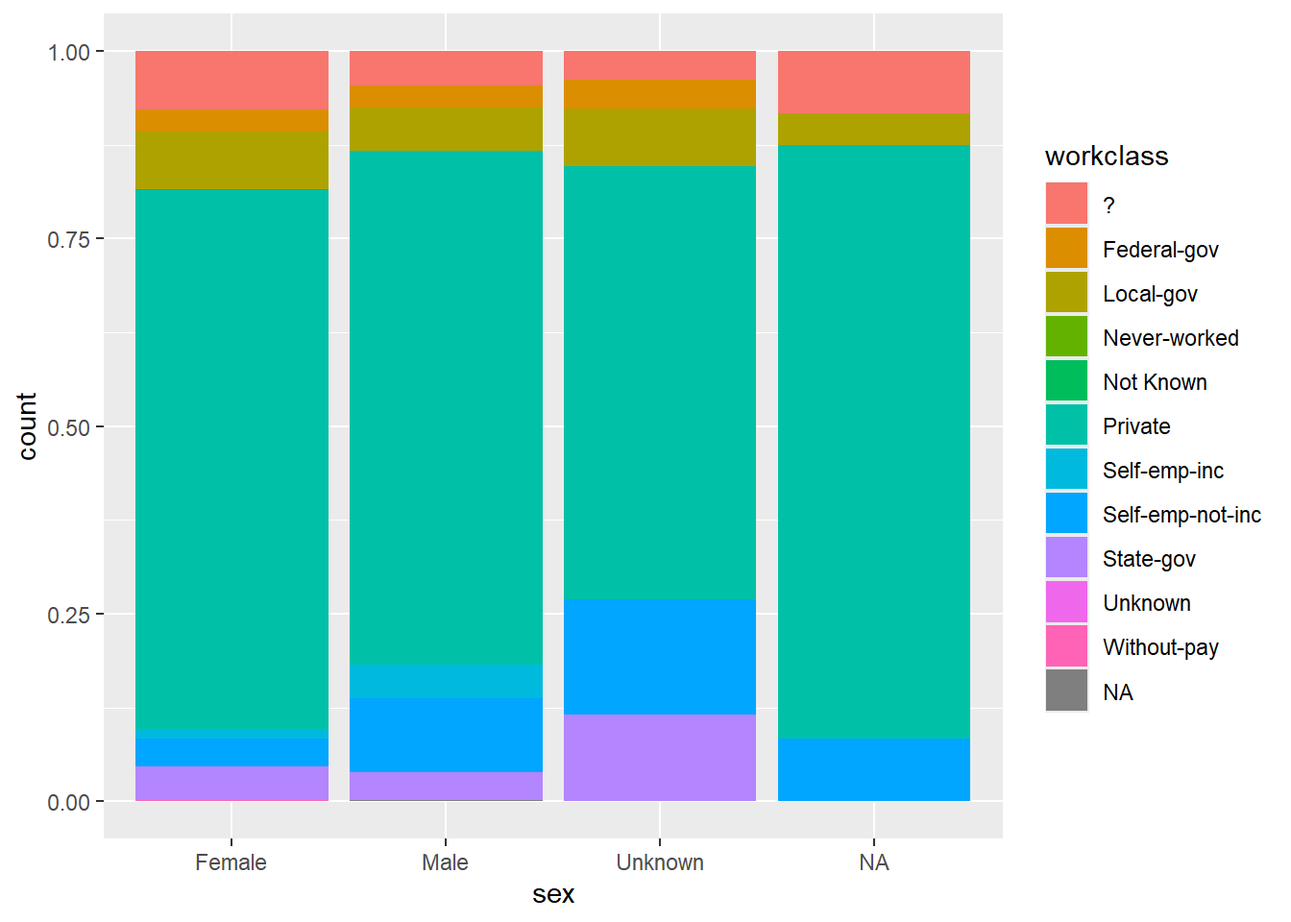
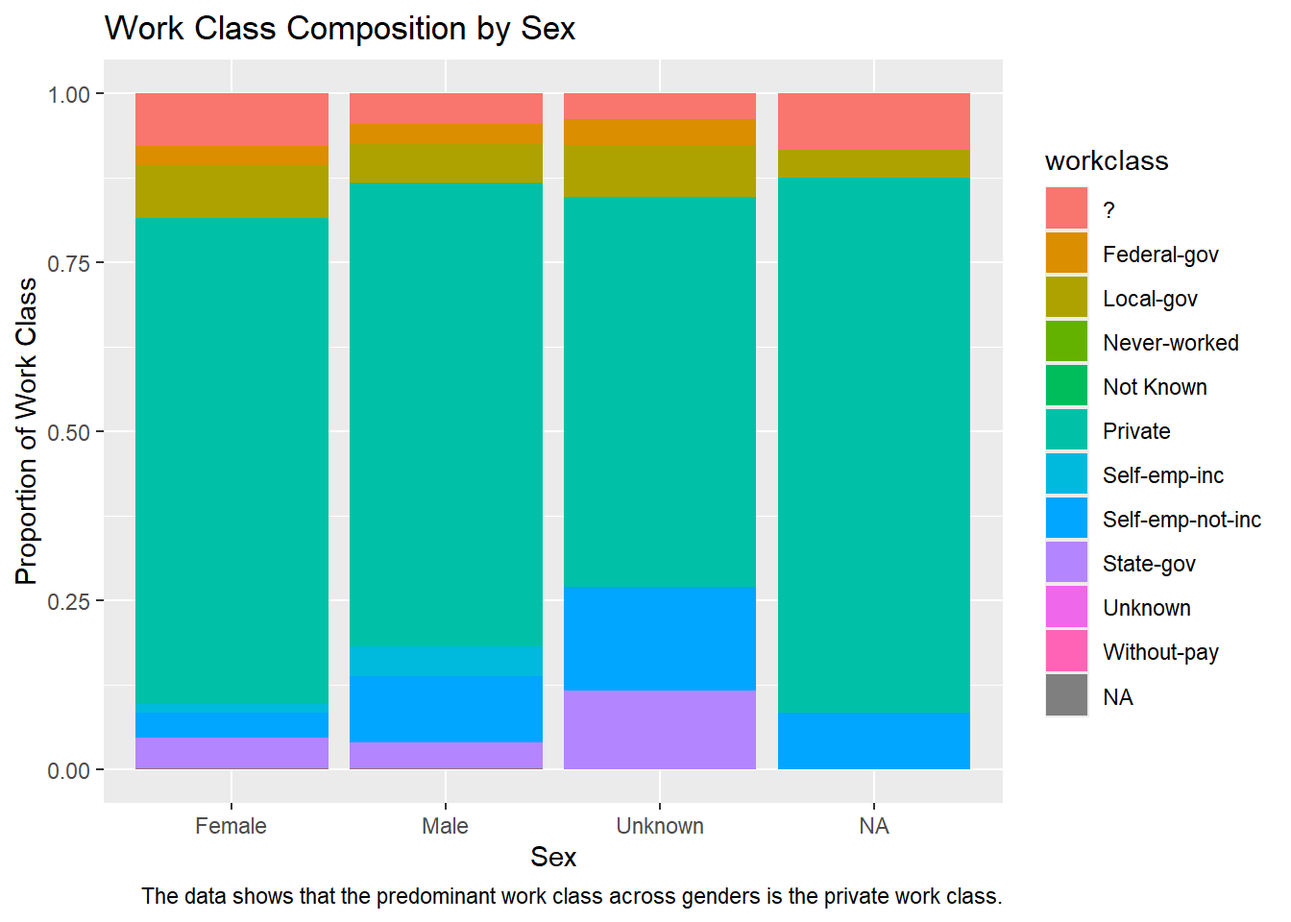
updae

diff --git a/assignment7.html b/assignment7.html
@@ -117,9 +117,13 @@ pre > code.sourceCode > span > a:first-child::before { text-decoration: underlin
 <li>Make a plot using <code>facet_wrap</code> by one categorical variable (<code>facet_wrap(~variable1)</code>)</li>
 </ol>
 <div class="cell">
-<div class="sourceCode cell-code" id="cb2"><pre class="sourceCode r code-with-copy"><code class="sourceCode r"><span id="cb2-1"><a href="#cb2-1" aria-hidden="true" tabindex="-1"></a>df <span class="sc">%&gt;%</span> <span class="fu">filter</span>(age<span class="sc">&lt;</span><span class="dv">55</span>,age<span class="sc">&gt;</span><span class="dv">30</span>,capital.gain<span class="sc">&lt;</span><span class="dv">50000</span>,capital.gain<span class="sc">&gt;</span><span class="dv">5000</span>) <span class="sc">%&gt;%</span>   <span class="fu">ggplot</span>()<span class="sc">+</span></span>
+<div class="sourceCode cell-code" id="cb2"><pre class="sourceCode r code-with-copy"><code class="sourceCode r"><span id="cb2-1"><a href="#cb2-1" aria-hidden="true" tabindex="-1"></a>df <span class="sc">%&gt;%</span> <span class="fu">filter</span>(age<span class="sc">&gt;</span><span class="dv">30</span>, age<span class="sc">&lt;</span><span class="dv">55</span>, capital.gain<span class="sc">&lt;</span><span class="dv">50000</span>, capital.gain<span class="sc">&gt;</span><span class="dv">5000</span>) <span class="sc">%&gt;%</span>   <span class="fu">ggplot</span>()<span class="sc">+</span></span>
 <span id="cb2-2"><a href="#cb2-2" aria-hidden="true" tabindex="-1"></a>  <span class="fu">geom_point</span>(<span class="at">mapping =</span> <span class="fu">aes</span>(<span class="at">x=</span>age, <span class="at">y=</span>capital.gain))<span class="sc">+</span></span>
-<span id="cb2-3"><a href="#cb2-3" aria-hidden="true" tabindex="-1"></a>  <span class="fu">facet_wrap</span>(<span class="sc">~</span>race)</span></code><button title="Copy to Clipboard" class="code-copy-button"><i class="bi"></i></button></pre></div>
+<span id="cb2-3"><a href="#cb2-3" aria-hidden="true" tabindex="-1"></a>  <span class="fu">facet_wrap</span>(<span class="sc">~</span>race)<span class="sc">+</span></span>
+<span id="cb2-4"><a href="#cb2-4" aria-hidden="true" tabindex="-1"></a>  <span class="fu">labs</span>(<span class="at">x=</span><span class="st">'Age Range'</span>,</span>
+<span id="cb2-5"><a href="#cb2-5" aria-hidden="true" tabindex="-1"></a>       <span class="at">y=</span><span class="st">'Capital Gain'</span>,</span>
+<span id="cb2-6"><a href="#cb2-6" aria-hidden="true" tabindex="-1"></a>       <span class="at">title =</span> <span class="st">'Age and Capital Gain Distribution by Race'</span>,</span>
+<span id="cb2-7"><a href="#cb2-7" aria-hidden="true" tabindex="-1"></a>       <span class="at">caption =</span> <span class="st">'The white race scatterplot of individuals between 30-55 have the most capital gains between 5000-50000.'</span>)</span></code><button title="Copy to Clipboard" class="code-copy-button"><i class="bi"></i></button></pre></div>
 <div class="cell-output-display">
 <div>
 <figure class="figure">
@@ -134,7 +138,11 @@ pre > code.sourceCode > span > a:first-child::before { text-decoration: underlin
 <div class="cell">
 <div class="sourceCode cell-code" id="cb3"><pre class="sourceCode r code-with-copy"><code class="sourceCode r"><span id="cb3-1"><a href="#cb3-1" aria-hidden="true" tabindex="-1"></a>df <span class="sc">%&gt;%</span> <span class="fu">filter</span>(age<span class="sc">&lt;</span><span class="dv">60</span>,age<span class="sc">&gt;</span><span class="dv">40</span>,hours.per.week<span class="sc">&gt;</span><span class="dv">30</span>,hours.per.week<span class="sc">&lt;</span><span class="dv">40</span>) <span class="sc">%&gt;%</span>   <span class="fu">ggplot</span>()<span class="sc">+</span></span>
 <span id="cb3-2"><a href="#cb3-2" aria-hidden="true" tabindex="-1"></a>  <span class="fu">geom_point</span>(<span class="at">mapping =</span> <span class="fu">aes</span>(<span class="at">x=</span>age, <span class="at">y=</span>hours.per.week))<span class="sc">+</span></span>
-<span id="cb3-3"><a href="#cb3-3" aria-hidden="true" tabindex="-1"></a>  <span class="fu">facet_wrap</span>(<span class="sc">~</span>race<span class="sc">+</span>sex)</span></code><button title="Copy to Clipboard" class="code-copy-button"><i class="bi"></i></button></pre></div>
+<span id="cb3-3"><a href="#cb3-3" aria-hidden="true" tabindex="-1"></a>  <span class="fu">facet_wrap</span>(<span class="sc">~</span>race<span class="sc">+</span>sex)<span class="sc">+</span></span>
+<span id="cb3-4"><a href="#cb3-4" aria-hidden="true" tabindex="-1"></a>  <span class="fu">labs</span>(<span class="at">x=</span><span class="st">'Age Range'</span>,</span>
+<span id="cb3-5"><a href="#cb3-5" aria-hidden="true" tabindex="-1"></a>       <span class="at">y=</span><span class="st">'Hours Worked per Week'</span>,</span>
+<span id="cb3-6"><a href="#cb3-6" aria-hidden="true" tabindex="-1"></a>       <span class="at">title =</span> <span class="st">'Hours Worked per Week vs. Age by Race and Sex'</span>,</span>
+<span id="cb3-7"><a href="#cb3-7" aria-hidden="true" tabindex="-1"></a>       <span class="at">caption =</span> <span class="st">'The data shows that white females between 40-60 work the most hours per week.'</span>)</span></code><button title="Copy to Clipboard" class="code-copy-button"><i class="bi"></i></button></pre></div>
 <div class="cell-output-display">
 <div>
 <figure class="figure">
@@ -148,7 +156,11 @@ pre > code.sourceCode > span > a:first-child::before { text-decoration: underlin
 </ol>
 <div class="cell">
 <div class="sourceCode cell-code" id="cb4"><pre class="sourceCode r code-with-copy"><code class="sourceCode r"><span id="cb4-1"><a href="#cb4-1" aria-hidden="true" tabindex="-1"></a>df <span class="sc">%&gt;%</span> <span class="fu">ggplot</span>()<span class="sc">+</span></span>
-<span id="cb4-2"><a href="#cb4-2" aria-hidden="true" tabindex="-1"></a>  <span class="fu">geom_bar</span>(<span class="at">mapping =</span> <span class="fu">aes</span>(<span class="at">x=</span>sex,<span class="at">fill=</span>workclass), <span class="at">position =</span> <span class="st">'dodge'</span>)</span></code><button title="Copy to Clipboard" class="code-copy-button"><i class="bi"></i></button></pre></div>
+<span id="cb4-2"><a href="#cb4-2" aria-hidden="true" tabindex="-1"></a>  <span class="fu">geom_bar</span>(<span class="at">mapping =</span> <span class="fu">aes</span>(<span class="at">x=</span>sex,<span class="at">fill=</span>workclass), <span class="at">position =</span> <span class="st">'dodge'</span>)<span class="sc">+</span></span>
+<span id="cb4-3"><a href="#cb4-3" aria-hidden="true" tabindex="-1"></a>  <span class="fu">labs</span>(<span class="at">x=</span><span class="st">'Sex'</span>,</span>
+<span id="cb4-4"><a href="#cb4-4" aria-hidden="true" tabindex="-1"></a>       <span class="at">y=</span><span class="st">'Number of Individuals by Work Class'</span>,</span>
+<span id="cb4-5"><a href="#cb4-5" aria-hidden="true" tabindex="-1"></a>       <span class="at">title =</span> <span class="st">'Distribution of Work Class by Sex'</span>,</span>
+<span id="cb4-6"><a href="#cb4-6" aria-hidden="true" tabindex="-1"></a>       <span class="at">caption =</span> <span class="st">'The data shows that most male individuals are in the private work class.'</span>)</span></code><button title="Copy to Clipboard" class="code-copy-button"><i class="bi"></i></button></pre></div>
 <div class="cell-output-display">
 <div>
 <figure class="figure">
@@ -162,7 +174,11 @@ pre > code.sourceCode > span > a:first-child::before { text-decoration: underlin
 </ol>
 <div class="cell">
 <div class="sourceCode cell-code" id="cb5"><pre class="sourceCode r code-with-copy"><code class="sourceCode r"><span id="cb5-1"><a href="#cb5-1" aria-hidden="true" tabindex="-1"></a>df <span class="sc">%&gt;%</span> <span class="fu">ggplot</span>()<span class="sc">+</span></span>
-<span id="cb5-2"><a href="#cb5-2" aria-hidden="true" tabindex="-1"></a>  <span class="fu">geom_bar</span>(<span class="at">mapping =</span> <span class="fu">aes</span>(<span class="at">x=</span>sex, <span class="at">fill=</span>workclass), <span class="at">position =</span> <span class="st">'fill'</span>)</span></code><button title="Copy to Clipboard" class="code-copy-button"><i class="bi"></i></button></pre></div>
+<span id="cb5-2"><a href="#cb5-2" aria-hidden="true" tabindex="-1"></a>  <span class="fu">geom_bar</span>(<span class="at">mapping =</span> <span class="fu">aes</span>(<span class="at">x=</span>sex, <span class="at">fill=</span>workclass), <span class="at">position =</span> <span class="st">'fill'</span>)<span class="sc">+</span></span>
+<span id="cb5-3"><a href="#cb5-3" aria-hidden="true" tabindex="-1"></a>  <span class="fu">labs</span>(<span class="at">x=</span><span class="st">'Sex'</span>,</span>
+<span id="cb5-4"><a href="#cb5-4" aria-hidden="true" tabindex="-1"></a>       <span class="at">y=</span><span class="st">'Proportion of Work Class'</span>,</span>
+<span id="cb5-5"><a href="#cb5-5" aria-hidden="true" tabindex="-1"></a>       <span class="at">title =</span><span class="st">'Work Class Composition by Sex'</span>,</span>
+<span id="cb5-6"><a href="#cb5-6" aria-hidden="true" tabindex="-1"></a>       <span class="at">caption =</span> <span class="st">'The data shows that the predominant work class across genders is the private work class.'</span>)</span></code><button title="Copy to Clipboard" class="code-copy-button"><i class="bi"></i></button></pre></div>
 <div class="cell-output-display">
 <div>
 <figure class="figure">
@@ -178,7 +194,11 @@ pre > code.sourceCode > span > a:first-child::before { text-decoration: underlin
 <div class="sourceCode cell-code" id="cb6"><pre class="sourceCode r code-with-copy"><code class="sourceCode r"><span id="cb6-1"><a href="#cb6-1" aria-hidden="true" tabindex="-1"></a>df <span class="sc">%&gt;%</span> <span class="fu">group_by</span>(race) <span class="sc">%&gt;%</span> </span>
 <span id="cb6-2"><a href="#cb6-2" aria-hidden="true" tabindex="-1"></a>  <span class="fu">summarise</span>(<span class="at">average_age=</span><span class="fu">mean</span>(age, <span class="at">na.rm=</span><span class="cn">TRUE</span>)) <span class="sc">%&gt;%</span> </span>
 <span id="cb6-3"><a href="#cb6-3" aria-hidden="true" tabindex="-1"></a>  <span class="fu">ggplot</span>()<span class="sc">+</span></span>
-<span id="cb6-4"><a href="#cb6-4" aria-hidden="true" tabindex="-1"></a>  <span class="fu">geom_col</span>(<span class="at">mapping =</span> <span class="fu">aes</span>(<span class="at">x=</span>race, <span class="at">y=</span>average_age))</span></code><button title="Copy to Clipboard" class="code-copy-button"><i class="bi"></i></button></pre></div>
+<span id="cb6-4"><a href="#cb6-4" aria-hidden="true" tabindex="-1"></a>  <span class="fu">geom_col</span>(<span class="at">mapping =</span> <span class="fu">aes</span>(<span class="at">x=</span>race, <span class="at">y=</span>average_age))<span class="sc">+</span></span>
+<span id="cb6-5"><a href="#cb6-5" aria-hidden="true" tabindex="-1"></a>  <span class="fu">labs</span>(<span class="at">x=</span><span class="st">'Race'</span>,</span>
+<span id="cb6-6"><a href="#cb6-6" aria-hidden="true" tabindex="-1"></a>       <span class="at">y=</span><span class="st">'Average Age of Individuals'</span>,</span>
+<span id="cb6-7"><a href="#cb6-7" aria-hidden="true" tabindex="-1"></a>       <span class="at">title =</span> <span class="st">'Average Age by Race'</span>,</span>
+<span id="cb6-8"><a href="#cb6-8" aria-hidden="true" tabindex="-1"></a>       <span class="at">caption =</span> <span class="st">'The data shows that the other race in the data has the lowest average age of about 34.'</span>)</span></code><button title="Copy to Clipboard" class="code-copy-button"><i class="bi"></i></button></pre></div>
 <div class="cell-output-display">
 <div>
 <figure class="figure">
@@ -193,7 +213,11 @@ pre > code.sourceCode > span > a:first-child::before { text-decoration: underlin
 <div class="cell">
 <div class="sourceCode cell-code" id="cb7"><pre class="sourceCode r code-with-copy"><code class="sourceCode r"><span id="cb7-1"><a href="#cb7-1" aria-hidden="true" tabindex="-1"></a>df <span class="sc">%&gt;%</span> <span class="fu">ggplot</span>()<span class="sc">+</span></span>
 <span id="cb7-2"><a href="#cb7-2" aria-hidden="true" tabindex="-1"></a>  <span class="fu">geom_bar</span>(<span class="at">mapping =</span> <span class="fu">aes</span>(<span class="at">x=</span>sex, <span class="at">fill=</span>workclass), <span class="at">position =</span> <span class="st">'fill'</span>)<span class="sc">+</span></span>
-<span id="cb7-3"><a href="#cb7-3" aria-hidden="true" tabindex="-1"></a>  <span class="fu">theme_dark</span>()</span></code><button title="Copy to Clipboard" class="code-copy-button"><i class="bi"></i></button></pre></div>
+<span id="cb7-3"><a href="#cb7-3" aria-hidden="true" tabindex="-1"></a>  <span class="fu">theme_dark</span>()<span class="sc">+</span></span>
+<span id="cb7-4"><a href="#cb7-4" aria-hidden="true" tabindex="-1"></a>  <span class="fu">labs</span>(<span class="at">x=</span><span class="st">'Sex'</span>,</span>
+<span id="cb7-5"><a href="#cb7-5" aria-hidden="true" tabindex="-1"></a>       <span class="at">y=</span><span class="st">'Proportion of Work Class'</span>,</span>
+<span id="cb7-6"><a href="#cb7-6" aria-hidden="true" tabindex="-1"></a>       <span class="at">title =</span><span class="st">'Work Class Composition by Sex'</span>,</span>
+<span id="cb7-7"><a href="#cb7-7" aria-hidden="true" tabindex="-1"></a>       <span class="at">caption =</span> <span class="st">'The data shows that the predominant work class across genders is the private work class.'</span>)</span></code><button title="Copy to Clipboard" class="code-copy-button"><i class="bi"></i></button></pre></div>
 <div class="cell-output-display">
 <div>
 <figure class="figure">
@@ -209,7 +233,11 @@ pre > code.sourceCode > span > a:first-child::before { text-decoration: underlin
 <div class="sourceCode cell-code" id="cb8"><pre class="sourceCode r code-with-copy"><code class="sourceCode r"><span id="cb8-1"><a href="#cb8-1" aria-hidden="true" tabindex="-1"></a>df <span class="sc">%&gt;%</span> </span>
 <span id="cb8-2"><a href="#cb8-2" aria-hidden="true" tabindex="-1"></a>  <span class="fu">filter</span>(age<span class="sc">&lt;</span><span class="dv">60</span>,age<span class="sc">&gt;</span><span class="dv">25</span>) <span class="sc">%&gt;%</span> </span>
 <span id="cb8-3"><a href="#cb8-3" aria-hidden="true" tabindex="-1"></a>  <span class="fu">ggplot</span>()<span class="sc">+</span></span>
-<span id="cb8-4"><a href="#cb8-4" aria-hidden="true" tabindex="-1"></a>  <span class="fu">geom_bar</span>(<span class="at">mapping =</span> <span class="fu">aes</span>(<span class="at">x=</span>sex, <span class="at">fill=</span>occupation))</span></code><button title="Copy to Clipboard" class="code-copy-button"><i class="bi"></i></button></pre></div>
+<span id="cb8-4"><a href="#cb8-4" aria-hidden="true" tabindex="-1"></a>  <span class="fu">geom_bar</span>(<span class="at">mapping =</span> <span class="fu">aes</span>(<span class="at">x=</span>sex, <span class="at">fill=</span>occupation))<span class="sc">+</span></span>
+<span id="cb8-5"><a href="#cb8-5" aria-hidden="true" tabindex="-1"></a>  <span class="fu">labs</span>(<span class="at">x=</span><span class="st">'Sex'</span>,</span>
+<span id="cb8-6"><a href="#cb8-6" aria-hidden="true" tabindex="-1"></a>       <span class="at">y=</span><span class="st">'Count of Individuals'</span>,</span>
+<span id="cb8-7"><a href="#cb8-7" aria-hidden="true" tabindex="-1"></a>       <span class="at">title =</span> <span class="st">'Occupational Distribution by Sex for Ages 25-60'</span>,</span>
+<span id="cb8-8"><a href="#cb8-8" aria-hidden="true" tabindex="-1"></a>       <span class="at">caption =</span> <span class="st">'The data shows that within the male sex, the occupation held the most is Exec-managerial.'</span>)</span></code><button title="Copy to Clipboard" class="code-copy-button"><i class="bi"></i></button></pre></div>
 <div class="cell-output-display">
 <div>
 <figure class="figure">
@@ -226,7 +254,11 @@ pre > code.sourceCode > span > a:first-child::before { text-decoration: underlin
 <span id="cb9-2"><a href="#cb9-2" aria-hidden="true" tabindex="-1"></a>  <span class="fu">group_by</span>(race, sex) <span class="sc">%&gt;%</span> </span>
 <span id="cb9-3"><a href="#cb9-3" aria-hidden="true" tabindex="-1"></a>  <span class="fu">summarise</span>(<span class="at">mean_age =</span> <span class="fu">mean</span>(age)) <span class="sc">%&gt;%</span> </span>
 <span id="cb9-4"><a href="#cb9-4" aria-hidden="true" tabindex="-1"></a>  <span class="fu">ggplot</span>()<span class="sc">+</span></span>
-<span id="cb9-5"><a href="#cb9-5" aria-hidden="true" tabindex="-1"></a>  <span class="fu">geom_col</span>(<span class="fu">aes</span>(<span class="at">x=</span>race, <span class="at">y=</span>mean_age, <span class="at">fill=</span>sex), <span class="at">position =</span> <span class="st">'dodge'</span>)</span></code><button title="Copy to Clipboard" class="code-copy-button"><i class="bi"></i></button></pre></div>
+<span id="cb9-5"><a href="#cb9-5" aria-hidden="true" tabindex="-1"></a>  <span class="fu">geom_col</span>(<span class="fu">aes</span>(<span class="at">x=</span>race, <span class="at">y=</span>mean_age, <span class="at">fill=</span>sex), <span class="at">position =</span> <span class="st">'dodge'</span>)<span class="sc">+</span></span>
+<span id="cb9-6"><a href="#cb9-6" aria-hidden="true" tabindex="-1"></a>  <span class="fu">labs</span>(<span class="at">x=</span><span class="st">'Race'</span>,</span>
+<span id="cb9-7"><a href="#cb9-7" aria-hidden="true" tabindex="-1"></a>       <span class="at">y=</span><span class="st">'Average Age'</span>,</span>
+<span id="cb9-8"><a href="#cb9-8" aria-hidden="true" tabindex="-1"></a>       <span class="at">title =</span> <span class="st">'Mean Age of Individuals by Race and Sex'</span>,</span>
+<span id="cb9-9"><a href="#cb9-9" aria-hidden="true" tabindex="-1"></a>       <span class="at">caption =</span> <span class="st">'The data shows that average age of individuals that are male and American-Indian-Eskimo is about 37.'</span>)</span></code><button title="Copy to Clipboard" class="code-copy-button"><i class="bi"></i></button></pre></div>
 <div class="cell-output-display">
 <div>
 <figure class="figure">
@@ -276,25 +308,16 @@ pre > code.sourceCode > span > a:first-child::before { text-decoration: underlin
 </div>
 <p>Do the follows.</p>
 <ul>
-<li><p>Use <code>geom_point</code> to compare the vaccines used by date in Argentina in 2022.</p></li>
-<li><p>Change <code>geom_point</code> to <code>geom_line</code> in the above codes to have the corresponding line plots.</p></li>
+<li>Use <code>geom_point</code> to compare the vaccines used by date in Argentina in 2022.</li>
 </ul>
-<ol start="11" type="1">
-<li>(Using the same dataset as in 10.) Sometime we need to do some calculations on the data before plotting. For example, the below codes is to compare the total vaccines (including all types of vaccines) by date between the US and the EU</li>
-</ol>
 <div class="cell">
-<div class="sourceCode cell-code" id="cb14"><pre class="sourceCode r code-with-copy"><code class="sourceCode r"><span id="cb14-1"><a href="#cb14-1" aria-hidden="true" tabindex="-1"></a><span class="co"># the total vaccines (including all types of vaccines) by date</span></span>
-<span id="cb14-2"><a href="#cb14-2" aria-hidden="true" tabindex="-1"></a>d1 <span class="ot">&lt;-</span> df <span class="sc">%&gt;%</span> </span>
-<span id="cb14-3"><a href="#cb14-3" aria-hidden="true" tabindex="-1"></a>  <span class="fu">filter</span>(location <span class="sc">%in%</span> <span class="fu">c</span>(<span class="st">'United States'</span>, <span class="st">'European Union'</span>)) <span class="sc">%&gt;%</span> </span>
-<span id="cb14-4"><a href="#cb14-4" aria-hidden="true" tabindex="-1"></a>  <span class="fu">group_by</span>(date, location) <span class="sc">%&gt;%</span> </span>
-<span id="cb14-5"><a href="#cb14-5" aria-hidden="true" tabindex="-1"></a>  <span class="fu">summarise</span>(<span class="at">total_vac2=</span><span class="fu">sum</span>(total_vaccinations, <span class="at">na.rm=</span><span class="cn">TRUE</span>))</span>
-<span id="cb14-6"><a href="#cb14-6" aria-hidden="true" tabindex="-1"></a></span>
-<span id="cb14-7"><a href="#cb14-7" aria-hidden="true" tabindex="-1"></a><span class="co"># Plot</span></span>
-<span id="cb14-8"><a href="#cb14-8" aria-hidden="true" tabindex="-1"></a>d1 <span class="sc">%&gt;%</span> </span>
-<span id="cb14-9"><a href="#cb14-9" aria-hidden="true" tabindex="-1"></a>  <span class="fu">ggplot</span>()<span class="sc">+</span></span>
-<span id="cb14-10"><a href="#cb14-10" aria-hidden="true" tabindex="-1"></a>  <span class="fu">geom_point</span>(<span class="at">mapping=</span><span class="fu">aes</span>(<span class="at">x=</span>date, </span>
-<span id="cb14-11"><a href="#cb14-11" aria-hidden="true" tabindex="-1"></a>                         <span class="at">y=</span>total_vac2, </span>
-<span id="cb14-12"><a href="#cb14-12" aria-hidden="true" tabindex="-1"></a>                         <span class="at">color=</span>location))</span></code><button title="Copy to Clipboard" class="code-copy-button"><i class="bi"></i></button></pre></div>
+<div class="sourceCode cell-code" id="cb14"><pre class="sourceCode r code-with-copy"><code class="sourceCode r"><span id="cb14-1"><a href="#cb14-1" aria-hidden="true" tabindex="-1"></a>df <span class="sc">%&gt;%</span> <span class="fu">filter</span>(location<span class="sc">==</span><span class="st">'Argentina'</span>,date<span class="sc">&lt;=</span><span class="st">'2022-12-31'</span>,date<span class="sc">&gt;=</span><span class="st">'2022-1-1'</span>) <span class="sc">%&gt;%</span> </span>
+<span id="cb14-2"><a href="#cb14-2" aria-hidden="true" tabindex="-1"></a>  <span class="fu">ggplot</span>()<span class="sc">+</span></span>
+<span id="cb14-3"><a href="#cb14-3" aria-hidden="true" tabindex="-1"></a>  <span class="fu">geom_point</span>(<span class="at">mapping =</span> <span class="fu">aes</span>(<span class="at">x=</span>date,<span class="at">y=</span>vaccine, <span class="at">color=</span>vaccine))<span class="sc">+</span></span>
+<span id="cb14-4"><a href="#cb14-4" aria-hidden="true" tabindex="-1"></a>  <span class="fu">labs</span>(<span class="at">x=</span><span class="st">'Date by Month'</span>,</span>
+<span id="cb14-5"><a href="#cb14-5" aria-hidden="true" tabindex="-1"></a>       <span class="at">y=</span><span class="st">'Type of Vaccine'</span>,</span>
+<span id="cb14-6"><a href="#cb14-6" aria-hidden="true" tabindex="-1"></a>       <span class="at">title =</span> <span class="st">'Vaccination Trends in Argentina (2022)'</span>,</span>
+<span id="cb14-7"><a href="#cb14-7" aria-hidden="true" tabindex="-1"></a>       <span class="at">caption =</span> <span class="st">'The data shows that the Oxford/AstraZeneca vaccine was the least administered out of all the types of vaccines.'</span>)</span></code><button title="Copy to Clipboard" class="code-copy-button"><i class="bi"></i></button></pre></div>
 <div class="cell-output-display">
 <div>
 <figure class="figure">
@@ -303,22 +326,106 @@ pre > code.sourceCode > span > a:first-child::before { text-decoration: underlin
 </div>
 </div>
 </div>
+<ul>
+<li>Change <code>geom_point</code> to <code>geom_line</code> in the above codes to have the corresponding line plots.</li>
+</ul>
+<div class="cell">
+<div class="sourceCode cell-code" id="cb15"><pre class="sourceCode r code-with-copy"><code class="sourceCode r"><span id="cb15-1"><a href="#cb15-1" aria-hidden="true" tabindex="-1"></a>df <span class="sc">%&gt;%</span> <span class="fu">filter</span>(location<span class="sc">==</span><span class="st">'Argentina'</span>,date<span class="sc">&lt;=</span><span class="st">'2022-12-31'</span>,date<span class="sc">&gt;=</span><span class="st">'2022-1-1'</span>) <span class="sc">%&gt;%</span> </span>
+<span id="cb15-2"><a href="#cb15-2" aria-hidden="true" tabindex="-1"></a>  <span class="fu">ggplot</span>()<span class="sc">+</span></span>
+<span id="cb15-3"><a href="#cb15-3" aria-hidden="true" tabindex="-1"></a>  <span class="fu">geom_line</span>(<span class="at">mapping =</span> <span class="fu">aes</span>(<span class="at">x=</span>date,<span class="at">y=</span>vaccine, <span class="at">color=</span>vaccine))<span class="sc">+</span></span>
+<span id="cb15-4"><a href="#cb15-4" aria-hidden="true" tabindex="-1"></a>  <span class="fu">labs</span>(<span class="at">x=</span><span class="st">'Date by Month'</span>,</span>
+<span id="cb15-5"><a href="#cb15-5" aria-hidden="true" tabindex="-1"></a>       <span class="at">y=</span><span class="st">'Type of Vaccine'</span>,</span>
+<span id="cb15-6"><a href="#cb15-6" aria-hidden="true" tabindex="-1"></a>       <span class="at">title =</span> <span class="st">'Vaccination Trends in Argentina (2022)'</span>,</span>
+<span id="cb15-7"><a href="#cb15-7" aria-hidden="true" tabindex="-1"></a>       <span class="at">caption =</span> <span class="st">'The data shows that the Oxford/AstraZeneca vaccine was the least administered out of all the types of vaccines.'</span>)</span></code><button title="Copy to Clipboard" class="code-copy-button"><i class="bi"></i></button></pre></div>
+<div class="cell-output-display">
+<div>
+<figure class="figure">
+<p><img src="assignment7_files/figure-html/unnamed-chunk-15-1.png" class="img-fluid figure-img" width="672"></p>
+</figure>
+</div>
+</div>
+</div>
+<ol start="11" type="1">
+<li>(Using the same dataset as in 10.) Sometime we need to do some calculations on the data before plotting. For example, the below codes is to compare the total vaccines (including all types of vaccines) by date between the US and the EU</li>
+</ol>
+<div class="cell">
+<div class="sourceCode cell-code" id="cb16"><pre class="sourceCode r code-with-copy"><code class="sourceCode r"><span id="cb16-1"><a href="#cb16-1" aria-hidden="true" tabindex="-1"></a><span class="co"># the total vaccines (including all types of vaccines) by date</span></span>
+<span id="cb16-2"><a href="#cb16-2" aria-hidden="true" tabindex="-1"></a>d1 <span class="ot">&lt;-</span> df <span class="sc">%&gt;%</span> </span>
+<span id="cb16-3"><a href="#cb16-3" aria-hidden="true" tabindex="-1"></a>  <span class="fu">filter</span>(location <span class="sc">%in%</span> <span class="fu">c</span>(<span class="st">'United States'</span>, <span class="st">'European Union'</span>)) <span class="sc">%&gt;%</span> </span>
+<span id="cb16-4"><a href="#cb16-4" aria-hidden="true" tabindex="-1"></a>  <span class="fu">group_by</span>(date, location) <span class="sc">%&gt;%</span> </span>
+<span id="cb16-5"><a href="#cb16-5" aria-hidden="true" tabindex="-1"></a>  <span class="fu">summarise</span>(<span class="at">total_vac2=</span><span class="fu">sum</span>(total_vaccinations, <span class="at">na.rm=</span><span class="cn">TRUE</span>))</span>
+<span id="cb16-6"><a href="#cb16-6" aria-hidden="true" tabindex="-1"></a></span>
+<span id="cb16-7"><a href="#cb16-7" aria-hidden="true" tabindex="-1"></a><span class="co"># Plot</span></span>
+<span id="cb16-8"><a href="#cb16-8" aria-hidden="true" tabindex="-1"></a>d1 <span class="sc">%&gt;%</span> </span>
+<span id="cb16-9"><a href="#cb16-9" aria-hidden="true" tabindex="-1"></a>  <span class="fu">ggplot</span>()<span class="sc">+</span></span>
+<span id="cb16-10"><a href="#cb16-10" aria-hidden="true" tabindex="-1"></a>  <span class="fu">geom_point</span>(<span class="at">mapping=</span><span class="fu">aes</span>(<span class="at">x=</span>date, </span>
+<span id="cb16-11"><a href="#cb16-11" aria-hidden="true" tabindex="-1"></a>                         <span class="at">y=</span>total_vac2, </span>
+<span id="cb16-12"><a href="#cb16-12" aria-hidden="true" tabindex="-1"></a>                         <span class="at">color=</span>location))</span></code><button title="Copy to Clipboard" class="code-copy-button"><i class="bi"></i></button></pre></div>
+<div class="cell-output-display">
+<div>
+<figure class="figure">
+<p><img src="assignment7_files/figure-html/unnamed-chunk-16-1.png" class="img-fluid figure-img" width="672"></p>
+</figure>
+</div>
+</div>
+</div>
 <p>Notice that the above codes could be piped in one</p>
 <div class="cell">
-<div class="sourceCode cell-code" id="cb15"><pre class="sourceCode r code-with-copy"><code class="sourceCode r"><span id="cb15-1"><a href="#cb15-1" aria-hidden="true" tabindex="-1"></a>df <span class="sc">%&gt;%</span> </span>
-<span id="cb15-2"><a href="#cb15-2" aria-hidden="true" tabindex="-1"></a>  <span class="fu">filter</span>(location <span class="sc">%in%</span> <span class="fu">c</span>(<span class="st">'United States'</span>, <span class="st">'European Union'</span>)) <span class="sc">%&gt;%</span> </span>
-<span id="cb15-3"><a href="#cb15-3" aria-hidden="true" tabindex="-1"></a>  <span class="fu">group_by</span>(date, location) <span class="sc">%&gt;%</span> </span>
-<span id="cb15-4"><a href="#cb15-4" aria-hidden="true" tabindex="-1"></a>  <span class="fu">summarise</span>(<span class="at">total_vac2=</span><span class="fu">sum</span>(total_vaccinations, <span class="at">na.rm=</span><span class="cn">TRUE</span>)) <span class="sc">%&gt;%</span> </span>
-<span id="cb15-5"><a href="#cb15-5" aria-hidden="true" tabindex="-1"></a>  <span class="fu">ggplot</span>()<span class="sc">+</span></span>
-<span id="cb15-6"><a href="#cb15-6" aria-hidden="true" tabindex="-1"></a>  <span class="fu">geom_point</span>(<span class="at">mapping=</span><span class="fu">aes</span>(<span class="at">x=</span>date, </span>
-<span id="cb15-7"><a href="#cb15-7" aria-hidden="true" tabindex="-1"></a>                         <span class="at">y=</span>total_vac2, </span>
-<span id="cb15-8"><a href="#cb15-8" aria-hidden="true" tabindex="-1"></a>                         <span class="at">color=</span>location))</span></code><button title="Copy to Clipboard" class="code-copy-button"><i class="bi"></i></button></pre></div>
+<div class="sourceCode cell-code" id="cb17"><pre class="sourceCode r code-with-copy"><code class="sourceCode r"><span id="cb17-1"><a href="#cb17-1" aria-hidden="true" tabindex="-1"></a>df <span class="sc">%&gt;%</span> </span>
+<span id="cb17-2"><a href="#cb17-2" aria-hidden="true" tabindex="-1"></a>  <span class="fu">filter</span>(location <span class="sc">%in%</span> <span class="fu">c</span>(<span class="st">'United States'</span>, <span class="st">'European Union'</span>)) <span class="sc">%&gt;%</span> </span>
+<span id="cb17-3"><a href="#cb17-3" aria-hidden="true" tabindex="-1"></a>  <span class="fu">group_by</span>(date, location) <span class="sc">%&gt;%</span> </span>
+<span id="cb17-4"><a href="#cb17-4" aria-hidden="true" tabindex="-1"></a>  <span class="fu">summarise</span>(<span class="at">total_vac2=</span><span class="fu">sum</span>(total_vaccinations, <span class="at">na.rm=</span><span class="cn">TRUE</span>)) <span class="sc">%&gt;%</span> </span>
+<span id="cb17-5"><a href="#cb17-5" aria-hidden="true" tabindex="-1"></a>  <span class="fu">ggplot</span>()<span class="sc">+</span></span>
+<span id="cb17-6"><a href="#cb17-6" aria-hidden="true" tabindex="-1"></a>  <span class="fu">geom_point</span>(<span class="at">mapping=</span><span class="fu">aes</span>(<span class="at">x=</span>date, </span>
+<span id="cb17-7"><a href="#cb17-7" aria-hidden="true" tabindex="-1"></a>                         <span class="at">y=</span>total_vac2, </span>
+<span id="cb17-8"><a href="#cb17-8" aria-hidden="true" tabindex="-1"></a>                         <span class="at">color=</span>location))</span></code><button title="Copy to Clipboard" class="code-copy-button"><i class="bi"></i></button></pre></div>
 </div>
 <p>Do the follows.</p>
 <ul>
-<li><p>Use <code>geom_point</code> compare the total vaccines (including all types of vaccines) by date between countries/regions in Asia</p></li>
-<li><p>Use <code>geom_point</code> compare the total vaccines (including all types of vaccines) by date between countries/regions in South America in 2021</p></li>
+<li>Use <code>geom_point</code> compare the total vaccines (including all types of vaccines) by date between countries/regions in Asia</li>
 </ul>
+<div class="cell">
+<div class="sourceCode cell-code" id="cb18"><pre class="sourceCode r code-with-copy"><code class="sourceCode r"><span id="cb18-1"><a href="#cb18-1" aria-hidden="true" tabindex="-1"></a>df <span class="sc">%&gt;%</span> </span>
+<span id="cb18-2"><a href="#cb18-2" aria-hidden="true" tabindex="-1"></a>  <span class="fu">filter</span>(location <span class="sc">%in%</span> <span class="fu">c</span>(<span class="st">'Cyprus'</span>, <span class="st">'Hong Kong'</span>, <span class="st">'Japan'</span>, <span class="st">'Nepal'</span>, <span class="st">'South Korea'</span>)) <span class="sc">%&gt;%</span> </span>
+<span id="cb18-3"><a href="#cb18-3" aria-hidden="true" tabindex="-1"></a>  <span class="fu">group_by</span>(date, location) <span class="sc">%&gt;%</span> </span>
+<span id="cb18-4"><a href="#cb18-4" aria-hidden="true" tabindex="-1"></a>  <span class="fu">summarise</span>(<span class="at">totalvac_Asia=</span><span class="fu">sum</span>(total_vaccinations, <span class="at">na.rm =</span> <span class="cn">TRUE</span>)) <span class="sc">%&gt;%</span> </span>
+<span id="cb18-5"><a href="#cb18-5" aria-hidden="true" tabindex="-1"></a>  <span class="fu">ggplot</span>()<span class="sc">+</span></span>
+<span id="cb18-6"><a href="#cb18-6" aria-hidden="true" tabindex="-1"></a>  <span class="fu">geom_point</span>(<span class="at">mapping =</span> <span class="fu">aes</span>(<span class="at">x=</span>date, <span class="at">y=</span>totalvac_Asia, <span class="at">color=</span>location))<span class="sc">+</span></span>
+<span id="cb18-7"><a href="#cb18-7" aria-hidden="true" tabindex="-1"></a>  <span class="fu">labs</span>(<span class="at">x=</span><span class="st">'Date'</span>,</span>
+<span id="cb18-8"><a href="#cb18-8" aria-hidden="true" tabindex="-1"></a>       <span class="at">y=</span><span class="st">'Total Vaccines'</span>,</span>
+<span id="cb18-9"><a href="#cb18-9" aria-hidden="true" tabindex="-1"></a>       <span class="at">title =</span> <span class="st">'Vaccine Trends in Countries/Regions in Asia'</span>,</span>
+<span id="cb18-10"><a href="#cb18-10" aria-hidden="true" tabindex="-1"></a>       <span class="at">caption =</span> <span class="st">'The data shows that Japan has the most vaccines.'</span>)</span></code><button title="Copy to Clipboard" class="code-copy-button"><i class="bi"></i></button></pre></div>
+<div class="cell-output-display">
+<div>
+<figure class="figure">
+<p><img src="assignment7_files/figure-html/unnamed-chunk-18-1.png" class="img-fluid figure-img" width="672"></p>
+</figure>
+</div>
+</div>
+</div>
+<ul>
+<li>Use <code>geom_point</code> compare the total vaccines (including all types of vaccines) by date between countries/regions in South America in 2021</li>
+</ul>
+<div class="cell">
+<div class="sourceCode cell-code" id="cb19"><pre class="sourceCode r code-with-copy"><code class="sourceCode r"><span id="cb19-1"><a href="#cb19-1" aria-hidden="true" tabindex="-1"></a>df <span class="sc">%&gt;%</span> </span>
+<span id="cb19-2"><a href="#cb19-2" aria-hidden="true" tabindex="-1"></a>  <span class="fu">filter</span>(location <span class="sc">%in%</span> <span class="fu">c</span>(<span class="st">'Argentina'</span>, <span class="st">'Chile'</span>, <span class="st">'Ecuador'</span>, <span class="st">'Peru'</span>, <span class="st">'Uruguay'</span>)) <span class="sc">%&gt;%</span> </span>
+<span id="cb19-3"><a href="#cb19-3" aria-hidden="true" tabindex="-1"></a>  <span class="fu">filter</span>(date<span class="sc">&lt;=</span><span class="st">'2021-12-31'</span>,date<span class="sc">&gt;=</span><span class="st">'2021-1-1'</span>) <span class="sc">%&gt;%</span> </span>
+<span id="cb19-4"><a href="#cb19-4" aria-hidden="true" tabindex="-1"></a>  <span class="fu">group_by</span>(date, location) <span class="sc">%&gt;%</span> </span>
+<span id="cb19-5"><a href="#cb19-5" aria-hidden="true" tabindex="-1"></a>  <span class="fu">summarise</span>(<span class="at">totalvac_SAmerica=</span><span class="fu">sum</span>(total_vaccinations, <span class="at">na.rm =</span> <span class="cn">TRUE</span>)) <span class="sc">%&gt;%</span> </span>
+<span id="cb19-6"><a href="#cb19-6" aria-hidden="true" tabindex="-1"></a>  <span class="fu">ggplot</span>()<span class="sc">+</span></span>
+<span id="cb19-7"><a href="#cb19-7" aria-hidden="true" tabindex="-1"></a>  <span class="fu">geom_point</span>(<span class="at">mapping =</span> <span class="fu">aes</span>(<span class="at">x=</span>date, <span class="at">y=</span>totalvac_SAmerica, <span class="at">color=</span>location))<span class="sc">+</span></span>
+<span id="cb19-8"><a href="#cb19-8" aria-hidden="true" tabindex="-1"></a>  <span class="fu">labs</span>(<span class="at">x=</span><span class="st">'Date'</span>,</span>
+<span id="cb19-9"><a href="#cb19-9" aria-hidden="true" tabindex="-1"></a>       <span class="at">y=</span><span class="st">'Total Vaccines'</span>,</span>
+<span id="cb19-10"><a href="#cb19-10" aria-hidden="true" tabindex="-1"></a>       <span class="at">title =</span> <span class="st">'Vaccine Trends in South America Countries/Regions in 2021'</span>,</span>
+<span id="cb19-11"><a href="#cb19-11" aria-hidden="true" tabindex="-1"></a>       <span class="at">caption =</span> <span class="st">'The data shows that Argentina has the most vaccines in 2021.'</span>)</span></code><button title="Copy to Clipboard" class="code-copy-button"><i class="bi"></i></button></pre></div>
+<div class="cell-output-display">
+<div>
+<figure class="figure">
+<p><img src="assignment7_files/figure-html/unnamed-chunk-19-1.png" class="img-fluid figure-img" width="672"></p>
+</figure>
+</div>
+</div>
+</div>
 
 </main>
 <!-- /main column -->

diff --git a/README.md b/README.md
@@ -14,4 +14,5 @@ Assignment 5 Part 2: [Assignment 5-2](assignment5_part2.html)
 
 Assignment 6: [Assignment 6](assignment6.html)
 
-[Link to the plot](abc.png)
+Assignment 7: [Assignment 7](assignment7.html)
+  Quesion 9 in Assignment 7: [Link to the plot](abc.png)
